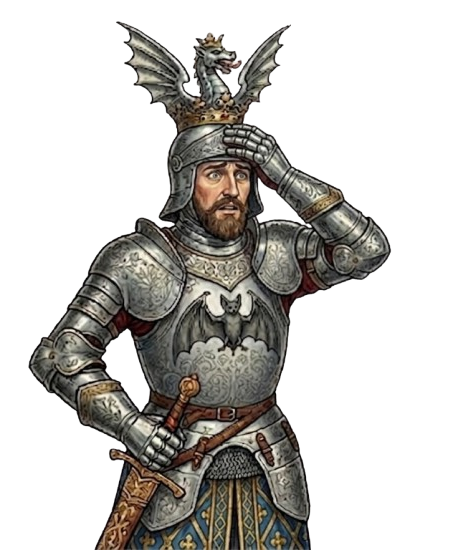
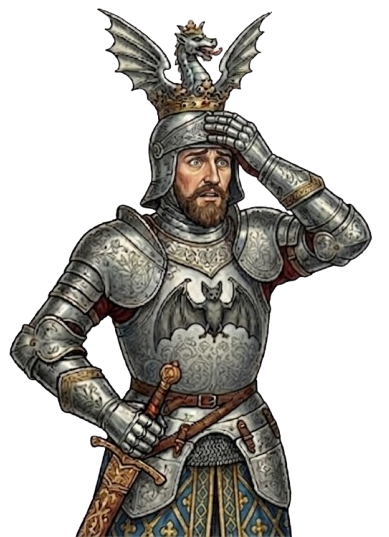
fix(video-intro): nuevas imágenes personajes + CACHE_VERSION v-video-intro-jul08c

diff --git a/sw.js b/sw.js
@@ -86,7 +86,7 @@ const APP_SHELL = [
 // Así, cualquier cambio real de shell (HTML/JS/CSS/manifest/íconos) actualiza
 // la versión de caché automáticamente en pre-commit y en dev:watch.
 // El navegador detecta el cambio byte-a-byte y re-registra el SW automáticamente.
-const CACHE_VERSION = 'v-video-intro-jul08b';
+const CACHE_VERSION = 'v-video-intro-jul08c';
 const IS_DEV = self.location.hostname === 'localhost' || self.location.hostname === '127.0.0.1';
 const CACHE_NAME = `vvguides-shell-${CACHE_VERSION}`;
 const MEDIA_CACHE_NAME = 'vvguides-media-v1';

diff --git a/docs/GUIA-COMPLETA.md b/docs/GUIA-COMPLETA.md
@@ -4343,7 +4343,7 @@ El SW no interviene en la comunicación postMessage entre componentes. Gestiona:
 
 - Caché Network-First del App Shell (HTML/JS/CSS/manifest)
 - Media (audios, vídeos, imágenes de aventuras) **nunca cacheado** — siempre desde red
-- `CACHE_VERSION` se actualiza en cada commit (valor actual: `'v-video-intro-jul08b'`). El sistema de auto-generación por SHA-256 vía `tools/build-sw.js` está descrito en los comentarios del SW pero el archivo no existe todavía.
+- `CACHE_VERSION` se actualiza en cada commit (valor actual: `'v-video-intro-jul08c'`). El sistema de auto-generación por SHA-256 vía `tools/build-sw.js` está descrito en los comentarios del SW pero el archivo no existe todavía.
 
 No emite ni recibe mensajes postMessage. No tiene handlers de mensajería del bus.
 
@@ -6870,7 +6870,7 @@ navigator.serviceWorker.addEventListener('message', event => {
 
 #### CACHE_VERSION y actualización automática
 
-`CACHE_VERSION` (actualmente `'v-video-intro-jul08b'`, línea 89 de `sw.js`) debe cambiarse en cada deploy para forzar que el navegador descarte la caché antigua. El encabezado de `sw.js` describe un sistema automático basado en SHA-256 (`tools/build-sw.js`) que calcularía la versión a partir del contenido de los ficheros de APP_SHELL, pero ese script no está implementado — el directorio `tools/` contiene scripts de traducción e inventario, pero no `build-sw.js`.
+`CACHE_VERSION` (actualmente `'v-video-intro-jul08c'`, línea 89 de `sw.js`) debe cambiarse en cada deploy para forzar que el navegador descarte la caché antigua. El encabezado de `sw.js` describe un sistema automático basado en SHA-256 (`tools/build-sw.js`) que calcularía la versión a partir del contenido de los ficheros de APP_SHELL, pero ese script no está implementado — el directorio `tools/` contiene scripts de traducción e inventario, pero no `build-sw.js`.
 
 **Detección de actualizaciones:** `registration.update()` se llama en `visibilitychange → hidden`. Esto asegura que el browser comprueba actualizaciones del SW cada vez que el usuario cambia de app. En dev (`IS_DEV = true`, hostname `localhost`/`127.0.0.1`), todos los fetches del SW van directamente a red sin caché, garantizando que el desarrollador siempre ve la versión más reciente.
 
@@ -7432,7 +7432,7 @@ Cada vez que se despliega una nueva versión, actualizar `CACHE_VERSION` en `sw.
 
 ```javascript
 // sw.js línea 89 — actualizar en cada despliegue
-const CACHE_VERSION = 'v-video-intro-jul08b'; // ← cambiar a un identificador de la versión (p.ej. 'v-1.0.0')
+const CACHE_VERSION = 'v-video-intro-jul08c'; // ← cambiar a un identificador de la versión (p.ej. 'v-1.0.0')
 const CACHE_NAME = `vvguides-shell-${CACHE_VERSION}`;
 ```
 
@@ -10904,7 +10904,7 @@ Timeout configurado en **30 000 ms** (30 s) para `crearPromiseHijoListo`. Los di
 **Archivo:** `sw.js` línea 89
 
 ```js
-const CACHE_VERSION = 'v-video-intro-jul08b';
+const CACHE_VERSION = 'v-video-intro-jul08c';
 ```
 
 El valor se actualiza manualmente en cada commit que requiere invalidar la caché del shell. El directorio `tools/` existe pero `tools/build-sw.js` (auto-generación por SHA-256 mencionada en el comentario de `sw.js`) **no está implementado** — es aspiracional.
